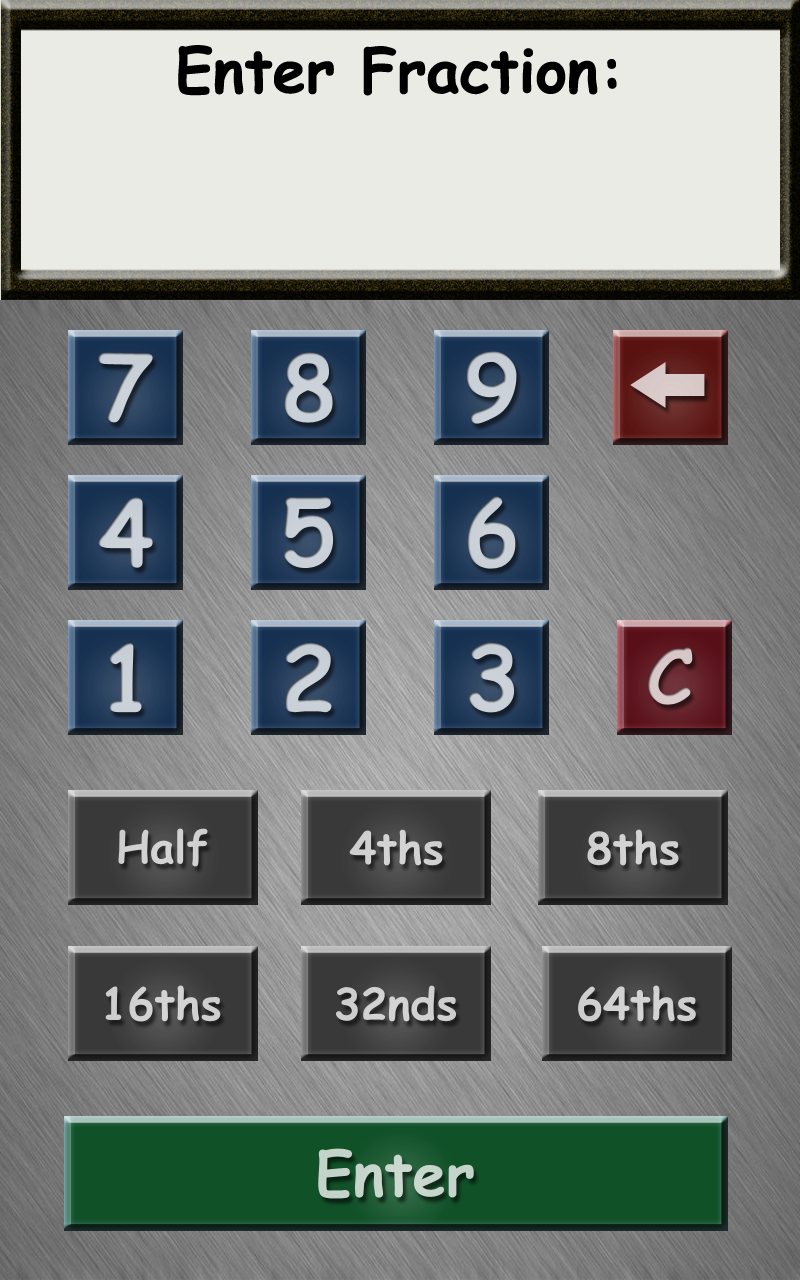
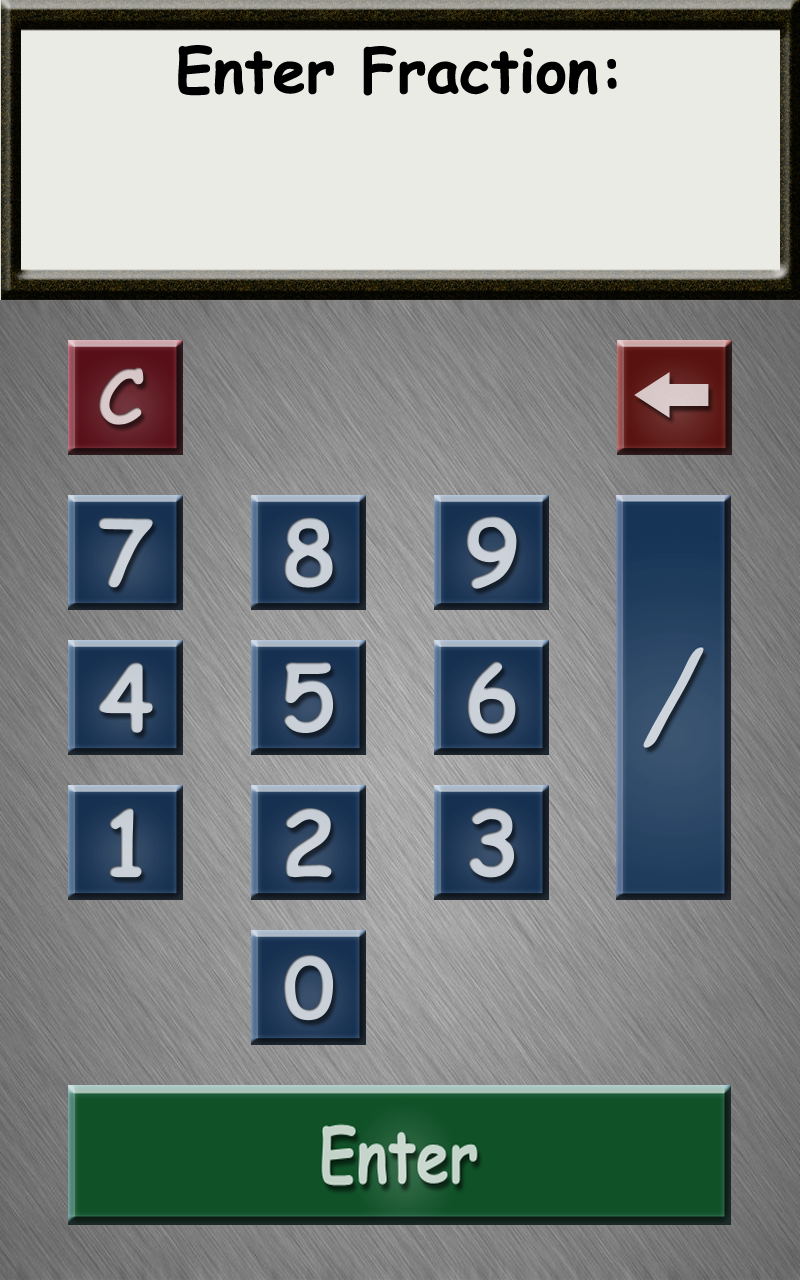
New FractionPage Layout

diff --git a/src/com/randkprogramming/tapemeasurecalculator/calculator/screens/FractionManualScreen.java b/src/com/randkprogramming/tapemeasurecalculator/calculator/screens/FractionManualScreen.java
@@ -75,8 +75,7 @@ public class FractionManualScreen extends Screen{
         List<Input.TouchEvent> touchEvents = calculator.getInput().getTouchEvent();
         for (Input.TouchEvent event : touchEvents) {
 
-            checkUpperSection(event);
-            checkLowerSection(event);
+            checkMainSection(event);
             checkEnterButton(event);
             manager.updateHoldTime(deltaTime);
         }
@@ -91,59 +90,56 @@ public class FractionManualScreen extends Screen{
         g.drawString(fraction, x_position, 220, paint);
     }
 
-    public static void setupLayout() {
-
-        setupLayoutUpper();
-    }
-
     //--------------------------------
     // Button Layout - Upper section
     //--------------------------------
-    private static final int NUM_ROWS_UPPER = 3;
-    private static final int NUM_COLS_UPPER = 4;
-    private static final int BUTTON_WIDTH_UPPER = 115;
-    private static final int BUTTON_HEIGHT_UPPER = 115;
-    private static final int HORIZONTAL_GAP_UPPER = 68;
-    private static final int VERTICAL_GAP_UPPER = 30;
-    private static final int X_OFFSET_UPPER = 0;
-    private static final int Y_OFFSET_UPPER = 300;
+    private static final int NUM_ROWS = 5;
+    private static final int NUM_COLS = 4;
+    private static final int BUTTON_WIDTH = 115;
+    private static final int BUTTON_HEIGHT = 115;
+    private static final int HORIZONTAL_GAP = 68;
+    private static final int VERTICAL_GAP = 30;
+    private static final int X_OFFSET = 0;
+    private static final int Y_OFFSET = 465;
 
     // Half the gap on one side plus half the gap on the other to allow for bigger touch areas.
-    private static final int TOUCH_WIDTH_UPPER = BUTTON_WIDTH_UPPER + HORIZONTAL_GAP_UPPER;
-    private static final int TOUCH_HEIGHT_UPPER = BUTTON_HEIGHT_UPPER + VERTICAL_GAP_UPPER;
+    private static final int TOUCH_WIDTH = BUTTON_WIDTH + HORIZONTAL_GAP;
+    private static final int TOUCH_HEIGHT = BUTTON_HEIGHT + VERTICAL_GAP;
 
     private static final Button buttonLayoutUpper[][] = new Button[][]{
-            new Button[]{Button.ManualFractions.SEVEN, Button.ManualFractions.EIGHT, Button.ManualFractions.NINE, Button.ManualFractions.BACK},
-            new Button[]{Button.ManualFractions.FOUR, Button.ManualFractions.FIVE, Button.ManualFractions.SIX},
-            new Button[]{Button.ManualFractions.ONE, Button.ManualFractions.TWO, Button.ManualFractions.THREE, Button.ManualFractions.CLEAR}
+            new Button[]{Button.ManualFractions.CLEAR, null, null, Button.ManualFractions.BACK},
+            new Button[]{Button.ManualFractions.SEVEN, Button.ManualFractions.EIGHT, Button.ManualFractions.NINE, Button.ManualFractions.FRACTION},
+            new Button[]{Button.ManualFractions.FOUR, Button.ManualFractions.FIVE, Button.ManualFractions.SIX, Button.ManualFractions.FRACTION},
+            new Button[]{Button.ManualFractions.ONE, Button.ManualFractions.TWO, Button.ManualFractions.THREE, Button.ManualFractions.FRACTION},
+            new Button[]{null,Button.ManualFractions.ZERO,null,null}
     };
 
-    private static final int[] xCoordsUpper = new int[NUM_COLS_UPPER];
-    private static final int[] yCoordsUpper = new int[NUM_ROWS_UPPER];
+    private static final int[] xCoordsUpper = new int[NUM_COLS];
+    private static final int[] yCoordsUpper = new int[NUM_ROWS];
 
     /** Calculates the top left x and y coordinates for each button. This method makes adjustments so that
      * touch events pressed within gap areas will go to the closest button. */
-    private static void setupLayoutUpper() {
+    public static void setupLayout() {
 
-        for (int col = 0; col < NUM_COLS_UPPER; col++) {
-            xCoordsUpper[col] = (X_OFFSET_UPPER + HORIZONTAL_GAP_UPPER + col *
-                    (BUTTON_WIDTH_UPPER + HORIZONTAL_GAP_UPPER)) - (HORIZONTAL_GAP_UPPER / 2);
+        for (int col = 0; col < NUM_COLS; col++) {
+            xCoordsUpper[col] = (X_OFFSET + HORIZONTAL_GAP + col *
+                    (BUTTON_WIDTH + HORIZONTAL_GAP)) - (HORIZONTAL_GAP / 2);
         }
-        for (int row = 0; row < NUM_ROWS_UPPER; row++) {
-            yCoordsUpper[row] = (Y_OFFSET_UPPER + VERTICAL_GAP_UPPER + row *
-                    (BUTTON_HEIGHT_UPPER + VERTICAL_GAP_UPPER)) - (VERTICAL_GAP_UPPER / 2);
+        for (int row = 0; row < NUM_ROWS; row++) {
+            yCoordsUpper[row] = (Y_OFFSET + VERTICAL_GAP + row *
+                    (BUTTON_HEIGHT + VERTICAL_GAP)) - (VERTICAL_GAP / 2);
         }
     }
 
-    private void checkUpperSection(Input.TouchEvent event) {
+    private void checkMainSection(Input.TouchEvent event) {
 
-        for (int row = 0; row < NUM_ROWS_UPPER; row++) {
-            for (int col = 0; col < NUM_COLS_UPPER; col++) {
+        for (int row = 0; row < NUM_ROWS; row++) {
+            for (int col = 0; col < NUM_COLS; col++) {
 
-                if (touchIsInBounds(event, xCoordsUpper[col], yCoordsUpper[row], TOUCH_WIDTH_UPPER, TOUCH_HEIGHT_UPPER)) {
+                if (touchIsInBounds(event, xCoordsUpper[col], yCoordsUpper[row], TOUCH_WIDTH, TOUCH_HEIGHT)) {
 
-                    // No button here
-                    if(row == 1 && col == 3)
+                    // No buttons in these positions: (0,1),(0,2),(4,0),(4,2),(4,3)
+                    if((row == 0 && (col == 1 || col == 2)) || (row == 3 && col != 1))
                         return;
 
                     switch (event.type) {
@@ -158,42 +154,10 @@ public class FractionManualScreen extends Screen{
     }
 
 
-
-
-    //--------------------------------
-    // Button Layout - Lower section
-    //--------------------------------
-    private static final int[] denom_x = {34,282,519};
-    private static final int[] denom_y = {770,925};
-    private static final Button denom_buttons[][] = new Button[][]{
-
-    };
-
-    private void checkLowerSection(Input.TouchEvent event) {
-
-        for(int row = 0; row < 2; row++) {
-            for(int col = 0; col < 3; col++) {
-
-                if(touchIsInBounds(event,denom_x[col],denom_y[row],237,155)) {
-                    switch (event.type) {
-                        case Input.TouchEvent.TOUCH_DOWN:    manager.setButtonPressed(denom_buttons[row][col]); break;
-                        case Input.TouchEvent.TOUCH_UP:      manager.setButtonReleased(denom_buttons[row][col]); break;
-                        case Input.TouchEvent.TOUCH_DRAGGED: break;
-                    }
-                    return;
-                }
-            }
-        }
-
-    }
-
-
-
-
     private void checkEnterButton(Input.TouchEvent event) {
 
         // Enter Button
-        if(touchIsInBounds(event,34,1095,711,155)) {
+        if(touchIsInBounds(event,34,1070,731,170)) {
             switch (event.type) {
                 case Input.TouchEvent.TOUCH_DOWN:    manager.setButtonPressed(Button.ManualFractions.ENTER); break;
                 case Input.TouchEvent.TOUCH_UP:      manager.setButtonReleased(Button.ManualFractions.ENTER); break;

diff --git a/src/com/randkprogramming/tapemeasurecalculator/calculator/mechanics/Button.java b/src/com/randkprogramming/tapemeasurecalculator/calculator/mechanics/Button.java
@@ -1,8 +1,6 @@
 package com.randkprogramming.tapemeasurecalculator.calculator.mechanics;
 
 import com.randkprogramming.tapemeasurecalculator.calculator.screens.FractionManualScreen;
-import com.randkprogramming.tapemeasurecalculator.calculator.screens.FractionSixteenthScreen;
-import com.randkprogramming.tapemeasurecalculator.calculator.screens.FractionThirtysecondScreen;
 import com.randkprogramming.tapemeasurecalculator.calculator.screens.TabInfoScreen;
 import com.randkprogramming.tapemeasurecalculator.impl.AndroidFastRenderView;
 import com.randkprogramming.tapemeasurecalculator.interfaces.Calculator;
